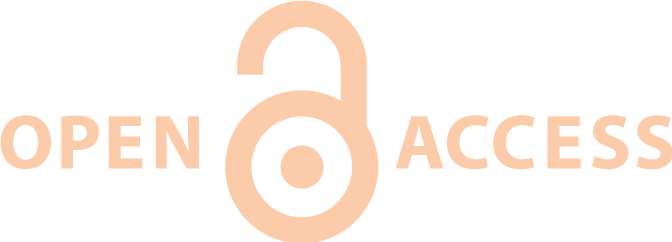
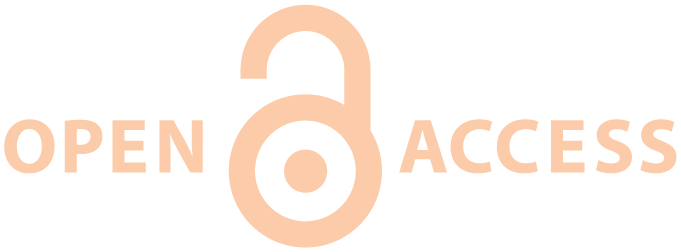
Fixed some more issues and made changes

diff --git a/_site/css/avestia.css b/_site/css/avestia.css
@@ -1075,6 +1075,7 @@ display: none;
 }
 .j-header {
     background-color: #F48120;
+    text-align: center;
 }
 .j-header h1 {
     color: #fecca9;
@@ -1083,13 +1084,16 @@ display: none;
     font-size: 1.1em!important;
     padding: 0;
     line-height: normal;
+    display: inline-block;
+    vertical-align: top;
 }
 
 .j-oa {
   display: block;
-  width: 100%;
+  width: 50%;
   padding-top: 1em;
-  max-width: 340px;
+  max-width: 180px;
+  margin: 0 auto;
 }
 
 .name {
@@ -1140,8 +1144,8 @@ padding-bottom: 0;
   margin: 1em 0;
 }
 
-.eic .body-link {
-    float: none;
+.eic .body {
+  text-align: center;
 }
 
 .eic2 {
@@ -1218,7 +1222,7 @@ padding-bottom: 0;
 }
 
 .border {
-    border: 1px solid #F48120;
+    border-bottom: 2px solid #F48120;
     margin-bottom: 1em;
 }
 
@@ -1254,7 +1258,7 @@ figure {
     color: #000;
 }
 
-table {
+.widetable table {
     width: 80%;
     text-align: center;
 }
@@ -1518,8 +1522,24 @@ footer .grid {
 	body.menu-active div#content {
     	right: 220px;
 	}
+  .j-header {
+    text-align: left;
+  }
+
   .j-header h1 {
     font-size: 1.25em!important;
+    padding: 10px 0;
+    display: inline-block;
+    vertical-align: top;
+  }
+
+  .j-oa {
+    display: inline-block;
+    width: 25%;
+    padding-top: 0;
+    max-width: 180px;
+    float: right;
+    margin: 0;
   }
 }
 
@@ -1666,11 +1686,15 @@ h2 {
 
   .j-header h1 {
     font-size: 1.8em!important;
+    padding: 0;
   }
-  .eic .body-link {
-    float: right;
-}
-
+  .j-oa {
+    display: inline-block;
+    width: 80%;
+    padding-top: 1em;
+    max-width: 280px;
+    float: none;
+  }
 .eic2 .body-link {
   float: none;
 }
@@ -1700,6 +1724,9 @@ h2 {
 
 .j-img {
     width: 65%;
+}
+.m-recent .border {
+  border: 0;
 }
 }
 
@@ -1829,6 +1856,26 @@ h2 {
     padding: 3em;
 }
 }
+
+/* 1300 PX */
+@media only screen and (min-width: 81em) {
+  .j-header {
+    background-color: #F48120;
+    min-height: 430px;
+    background: url(../img/journals/j-are.jpg) center center;
+    background-size: cover;
+  }
+  .name {
+    width: 35%;
+    float: none; 
+    background-color: #F48120;
+    min-height: 430px;
+  }
+  .j-img {
+    display: none;
+  }
+}
+
 
 /* 1380 PX */
 @media only screen and (min-width: 86em){

diff --git a/_includes/css/general.css b/_includes/css/general.css
@@ -805,6 +805,7 @@ display: none;
 }
 .j-header {
     background-color: #F48120;
+    text-align: center;
 }
 .j-header h1 {
     color: #fecca9;
@@ -813,13 +814,16 @@ display: none;
     font-size: 1.1em!important;
     padding: 0;
     line-height: normal;
+    display: inline-block;
+    vertical-align: top;
 }
 
 .j-oa {
   display: block;
-  width: 100%;
+  width: 50%;
   padding-top: 1em;
-  max-width: 340px;
+  max-width: 180px;
+  margin: 0 auto;
 }
 
 .name {
@@ -870,8 +874,8 @@ padding-bottom: 0;
   margin: 1em 0;
 }
 
-.eic .body-link {
-    float: none;
+.eic .body {
+  text-align: center;
 }
 
 .eic2 {
@@ -948,7 +952,7 @@ padding-bottom: 0;
 }
 
 .border {
-    border: 1px solid #F48120;
+    border-bottom: 2px solid #F48120;
     margin-bottom: 1em;
 }
 
@@ -984,7 +988,7 @@ figure {
     color: #000;
 }
 
-table {
+.widetable table {
     width: 80%;
     text-align: center;
 }
@@ -1248,8 +1252,24 @@ footer .grid {
 	body.menu-active div#content {
     	right: 220px;
 	}
+  .j-header {
+    text-align: left;
+  }
+
   .j-header h1 {
     font-size: 1.25em!important;
+    padding: 10px 0;
+    display: inline-block;
+    vertical-align: top;
+  }
+
+  .j-oa {
+    display: inline-block;
+    width: 25%;
+    padding-top: 0;
+    max-width: 180px;
+    float: right;
+    margin: 0;
   }
 }
 
@@ -1396,11 +1416,15 @@ h2 {
 
   .j-header h1 {
     font-size: 1.8em!important;
+    padding: 0;
   }
-  .eic .body-link {
-    float: right;
-}
-
+  .j-oa {
+    display: inline-block;
+    width: 80%;
+    padding-top: 1em;
+    max-width: 280px;
+    float: none;
+  }
 .eic2 .body-link {
   float: none;
 }
@@ -1430,6 +1454,9 @@ h2 {
 
 .j-img {
     width: 65%;
+}
+.m-recent .border {
+  border: 0;
 }
 }
 
@@ -1559,6 +1586,26 @@ h2 {
     padding: 3em;
 }
 }
+
+/* 1300 PX */
+@media only screen and (min-width: 81em) {
+  .j-header {
+    background-color: #F48120;
+    min-height: 430px;
+    background: url(../img/journals/j-are.jpg) center center;
+    background-size: cover;
+  }
+  .name {
+    width: 35%;
+    float: none; 
+    background-color: #F48120;
+    min-height: 430px;
+  }
+  .j-img {
+    display: none;
+  }
+}
+
 
 /* 1380 PX */
 @media only screen and (min-width: 86em){

diff --git a/index.html b/index.html
@@ -40,18 +40,19 @@ keyword: avestia, publishing, journals, papers, science, renewable energy
         <a href="/guidelines" class="j-link">Submit a Manuscript</a>
 
         <div class="index">
-          <p class="body"><b>Indexed by:</b> Google Scholars, Index Copernicus International, DRJI<br>
+          <p class="body"><b>Indexed by:</b> Google Scholar, Index Copernicus International, DRJI<br>
           <a href="/aims" class="body-link">View Our Full List of Indexations</a></p>
         </div>
   		</div>
   	</div> <!-- GUIDELINES/SUBMIT/INDEX -->
 
     <div class="eic">
-        <p class="body"><b>Editor-in-Cheif:</b> Dr. Tapas Mallick, Environment and Sustainability Institute, University of Exeter, UK. <a href="/board" class="body-link">View Our Editorial Board</a></p>
+        <p class="body"><b>Editor-in-Cheif:</b> Dr. Tapas Mallick,<br>Environment and Sustainability Institute,<br>University of Exeter, UK.<br>
+        <a href="/board" class="body-link">View the Editorial Board</a></p>
       </div>
 
     <div class="unit unit-s-1 unit-s-1-2 unit-m-1-2 unit-l-1-2 m-recent">
-      <div class="unit-spacer">
+      <div class="unit-spacer border">
         <h2>Most Recent Articles</h2>
 
           <a href="http://are.avestia.com/2014/001.html" class="body-link">Waste Heat Energy Supercritical Carbon Dioxide Recovery Cycle Analysis and Design</a>
@@ -61,7 +62,7 @@ keyword: avestia, publishing, journals, papers, science, renewable energy
       </div>
     </div> <!-- RECENT ARTICLES -->
 
-    <div class="unit unit-s-1 unit-s-1-2 unit-m-1-2 unit-l-1-2">
+    <!-- <div class="unit unit-s-1 unit-s-1-2 unit-m-1-2 unit-l-1-2 m-recent">
         <div class="unit-spacer">
           <h2>Most Visited Articles</h2>
           <script>
@@ -69,7 +70,7 @@ keyword: avestia, publishing, journals, papers, science, renewable energy
           </script>
           <div id="mostVisitedExt"></div>
         </div>
-    </div><!-- VISITED ARTICLES -->
+    </div> --><!-- VISITED ARTICLES -->
 
   </div> <!-- Main Content -->
 </div>

diff --git a/_site/index.html b/_site/index.html
@@ -178,18 +178,19 @@
         <a href="/guidelines" class="j-link">Submit a Manuscript</a>
 
         <div class="index">
-          <p class="body"><b>Indexed by:</b> Google Scholars, Index Copernicus International, DRJI<br>
+          <p class="body"><b>Indexed by:</b> Google Scholar, Index Copernicus International, DRJI<br>
           <a href="/aims" class="body-link">View Our Full List of Indexations</a></p>
         </div>
   		</div>
   	</div> <!-- GUIDELINES/SUBMIT/INDEX -->
 
     <div class="eic">
-        <p class="body"><b>Editor-in-Cheif:</b> Dr. Tapas Mallick, Environment and Sustainability Institute, University of Exeter, UK. <a href="/board" class="body-link">View Our Editorial Board</a></p>
+        <p class="body"><b>Editor-in-Cheif:</b> Dr. Tapas Mallick,<br>Environment and Sustainability Institute,<br>University of Exeter, UK.<br>
+        <a href="/board" class="body-link">View the Editorial Board</a></p>
       </div>
 
     <div class="unit unit-s-1 unit-s-1-2 unit-m-1-2 unit-l-1-2 m-recent">
-      <div class="unit-spacer">
+      <div class="unit-spacer border">
         <h2>Most Recent Articles</h2>
 
           <a href="http://are.avestia.com/2014/001.html" class="body-link">Waste Heat Energy Supercritical Carbon Dioxide Recovery Cycle Analysis and Design</a>
@@ -199,7 +200,7 @@
       </div>
     </div> <!-- RECENT ARTICLES -->
 
-    <div class="unit unit-s-1 unit-s-1-2 unit-m-1-2 unit-l-1-2">
+    <!-- <div class="unit unit-s-1 unit-s-1-2 unit-m-1-2 unit-l-1-2 m-recent">
         <div class="unit-spacer">
           <h2>Most Visited Articles</h2>
           <script>
@@ -207,7 +208,7 @@
           </script>
           <div id="mostVisitedExt"></div>
         </div>
-    </div><!-- VISITED ARTICLES -->
+    </div> --><!-- VISITED ARTICLES -->
 
   </div> <!-- Main Content -->
 </div>

diff --git a/aims.html b/aims.html
@@ -14,7 +14,7 @@ keyword: avestia, publishing, journals, papers, science, renewable energy
 
       <p class="body">Users are allowed to read, download, copy, distribute, print, search, or link to the full texts of the articles in this journal without asking prior permission from the publisher or the author. This is in accordance with the BOAI definition of open access.</p>
 
-      <p class="body">All published papers of ARE will be submitted to Google Scholars, Index Copernicus International, DRJI, Microsoft Academic Search, Open J-Gate, Academic Index, Mendeley, and Genomics JournalSeek for indexing.</p>
+      <p class="body">All published papers of ARE will be submitted to Google Scholar, Index Copernicus International, DRJI, Microsoft Academic Search, Open J-Gate, Academic Index, Mendeley, and Genomics JournalSeek for indexing.</p>
 
       <p class="body">ARE is a high quality peer reviewed journal and welcomes research and review papers related to:</p>
 

diff --git a/_site/aims.html b/_site/aims.html
@@ -152,7 +152,7 @@
 
       <p class="body">Users are allowed to read, download, copy, distribute, print, search, or link to the full texts of the articles in this journal without asking prior permission from the publisher or the author. This is in accordance with the BOAI definition of open access.</p>
 
-      <p class="body">All published papers of ARE will be submitted to Google Scholars, Index Copernicus International, DRJI, Microsoft Academic Search, Open J-Gate, Academic Index, Mendeley, and Genomics JournalSeek for indexing.</p>
+      <p class="body">All published papers of ARE will be submitted to Google Scholar, Index Copernicus International, DRJI, Microsoft Academic Search, Open J-Gate, Academic Index, Mendeley, and Genomics JournalSeek for indexing.</p>
 
       <p class="body">ARE is a high quality peer reviewed journal and welcomes research and review papers related to:</p>
 

diff --git a/2014/001.html b/2014/001.html
@@ -145,7 +145,7 @@
 
 <div class="grid">
 <div class="unit unit-s-1 unit-m-1 unit-l-1">
-  <div class="main-content j-home m-recent">
+  <div class="main-content j-home">
   	<div class="unit unit-s-1 unit-s-1-2 unit-m-1-2 unit-l-1-2">
   		<p class="body">
   		Volume 1, Year 2014 - Pages 1-10<br>

diff --git a/_site/2014/001.html b/_site/2014/001.html
@@ -145,7 +145,7 @@
 
 <div class="grid">
 <div class="unit unit-s-1 unit-m-1 unit-l-1">
-  <div class="main-content j-home m-recent">
+  <div class="main-content j-home">
   	<div class="unit unit-s-1 unit-s-1-2 unit-m-1-2 unit-l-1-2">
   		<p class="body">
   		Volume 1, Year 2014 - Pages 1-10<br>
